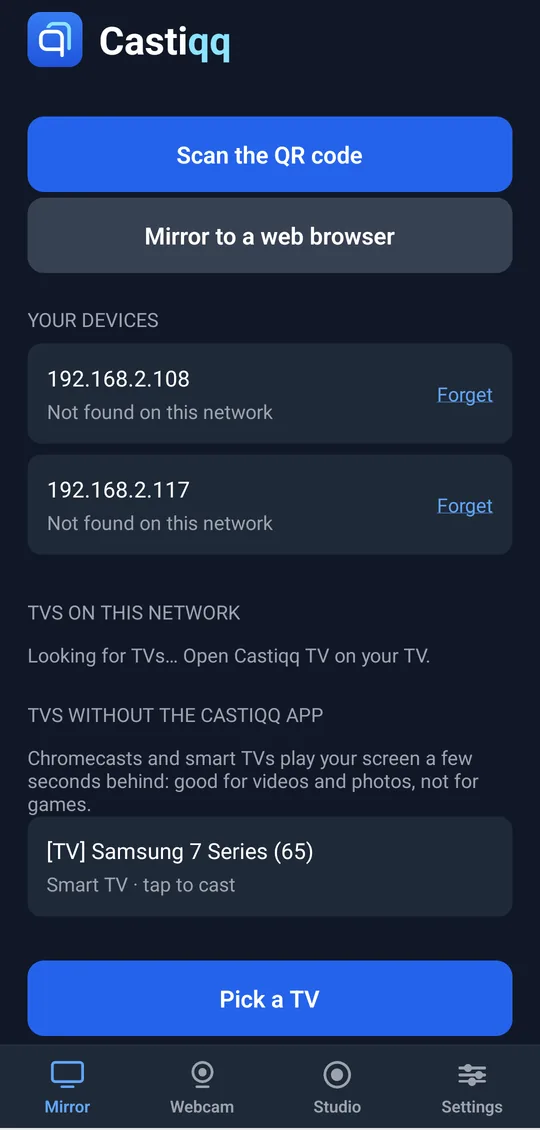
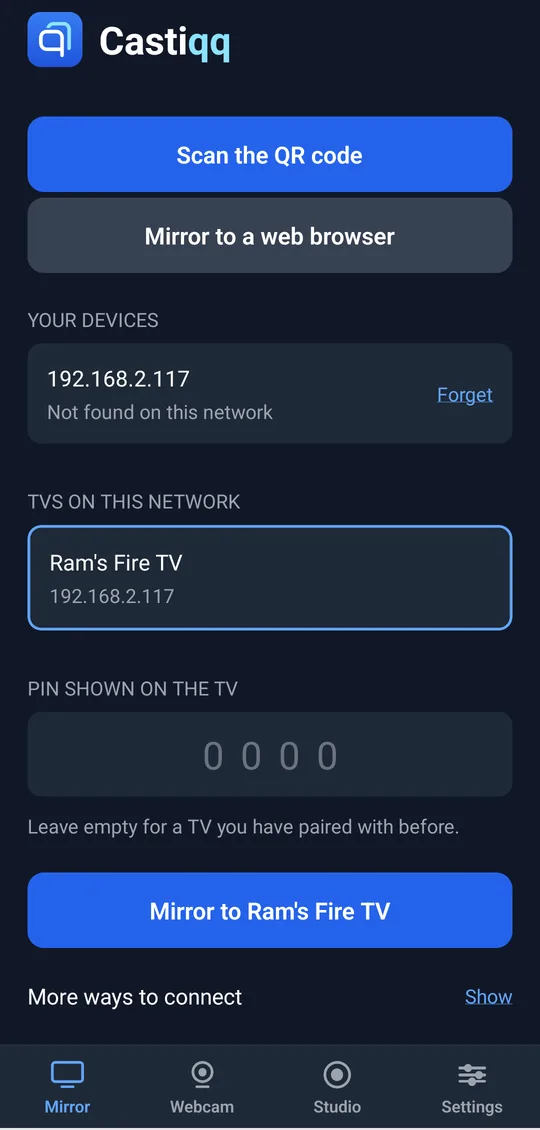
Update build: Mirror tab screenshot with the Fire TV online (screen-mirroring-app@0766315)

diff --git a/index.html b/index.html
@@ -333,7 +333,7 @@ footer .about p { font-size: .93rem; max-width: 20rem; }
       </div>
       <div class="tv-stand"></div>
       <div class="cast"><span></span><span></span><span></span></div>
-      <div class="phone"><img src="screens/phone-mirror-tab.webp" alt="Castiqq phone app Mirror tab listing your devices and TVs on the network" width="540" height="1130"></div>
+      <div class="phone"><img src="screens/phone-mirror-tab.webp" alt="Castiqq phone app Mirror tab with Ram's Fire TV picked and ready to mirror" width="540" height="1130"></div>
     </div>
   </div>
   <svg class="wave" viewBox="0 0 1440 90" preserveAspectRatio="none" aria-hidden="true"><path d="M0 60 C 240 10 480 10 720 45 C 960 80 1200 85 1440 40 L1440 90 L0 90 Z"/></svg>
